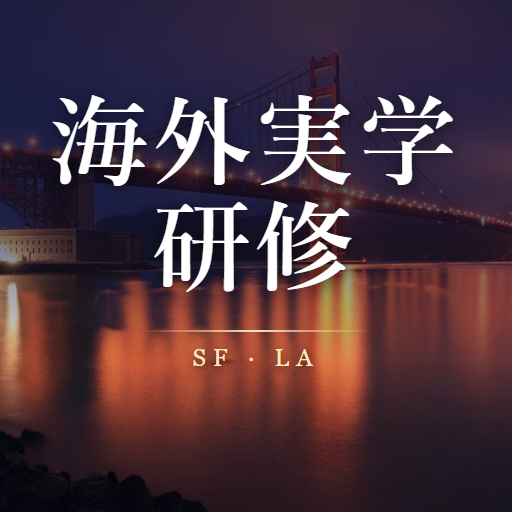
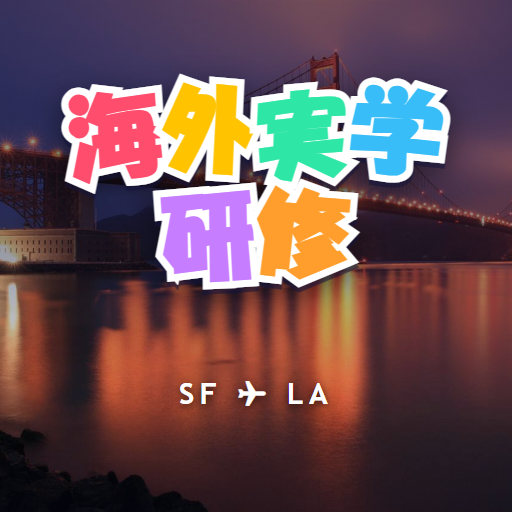
アイコンの文字をポップ体・カラフルに変更

diff --git a/sw.js b/sw.js
@@ -1,5 +1,5 @@
 // オフラインでも使えるよう、同じ場所のファイルをキャッシュする
-var CACHE = "trip-guide-v21";
+var CACHE = "trip-guide-v22";
 var IMGS = ["gg-dusk", "gg-glow", "gg-alcatraz", "sf-night", "sf-neon", "bay-bridge", "palace", "silicon-valley", "pier39", "yosemite", "hollywood", "la-night", "la-night2", "la-dusk", "santa-monica", "santa-monica-night", "disneyland"];
 var FILES = ["./", "index.html", "style.css", "app.js", "data.js", "photos.js", "cards.js", "english.js", "search.js", "ux.js", "map.js", "spots.js", "shops-data.js", "nearby.js", "vendor/leaflet.js", "vendor/leaflet.css", "manifest.webmanifest", "icons/icon-180.png", "icons/icon-192.png", "icons/icon-512.png", "icons/favicon-64.png"]
   .concat(IMGS.map(function (n) { return "img/" + n + ".jpg"; }));

diff --git a/index.html b/index.html
@@ -8,7 +8,7 @@
 <meta name="robots" content="noindex,nofollow">
 <title>研修ガイド｜SF・LA</title>
 <link rel="manifest" href="manifest.webmanifest">
-<link rel="icon" href="icons/favicon-64.png?v=4" type="image/png" sizes="64x64">
+<link rel="icon" href="icons/favicon-64.png?v=5" type="image/png" sizes="64x64">
 <link rel="apple-touch-icon" href="icons/icon-180.png">
 <link rel="stylesheet" href="vendor/leaflet.css">
 <link rel="stylesheet" href="style.css">

diff --git a/README.md b/README.md
@@ -25,7 +25,7 @@
 - 緊急連絡先などは、アプリの「便利 → マイ情報」に各自で入力します（端末内にだけ保存）。
 
 ## アイコンについて
-ホーム画面のアイコンは、`img/gg-dusk.jpg`（Brocken Inaglory 撮影、CC BY-SA 3.0）を切り抜き、文字を重ねたものです。同じライセンス（CC BY-SA 3.0）で公開します。
+ホーム画面のアイコンは、`img/gg-dusk.jpg`（Brocken Inaglory 撮影、CC BY-SA 3.0）を切り抜き、ポップ体のカラフルな文字を重ねたものです。同じライセンス（CC BY-SA 3.0）で公開します。
 
 ## 写真について
 `img/` の写真は、すべて Wikimedia Commons で公開されている作品です。
